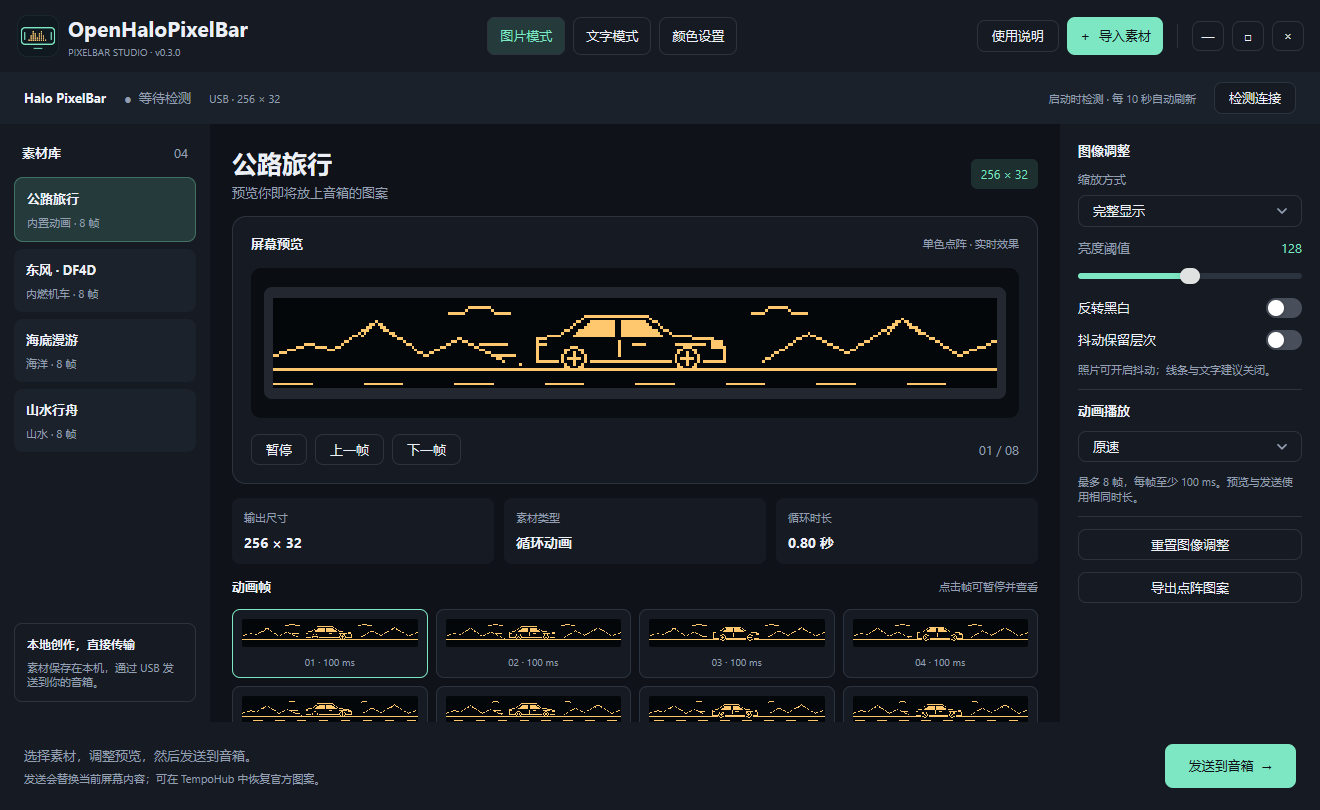
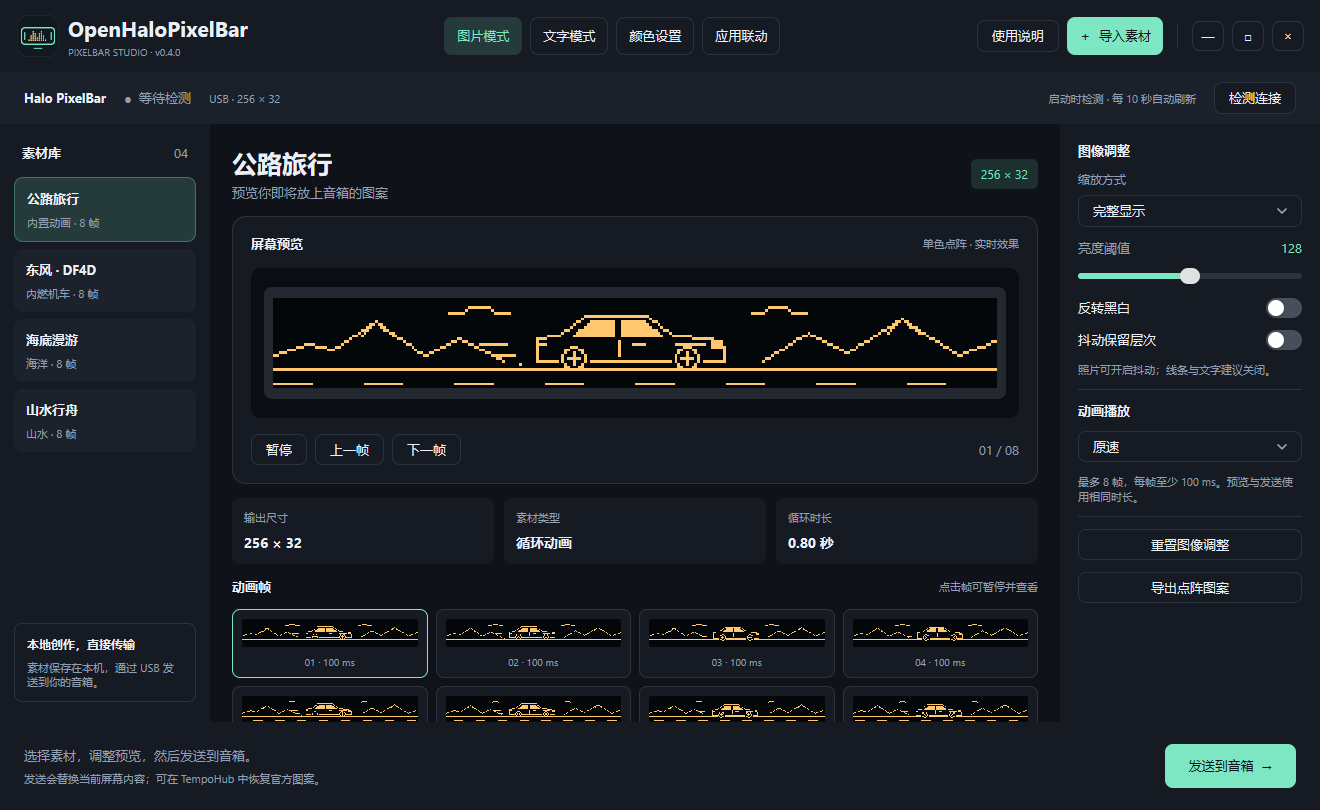
release: prepare v0.4.0 with application linkage and tray

Changed region(s): [[0.3106, 0.0, 0.5902, 0.0926]]

diff --git a/internal/branding/branding.go b/internal/branding/branding.go
@@ -4,7 +4,7 @@ package branding
 import _ "embed"
 
 const Name = "OpenHaloPixelBar"
-const Version = "0.3.0"
+const Version = "0.4.0"
 const Disclaimer = "OpenHaloPixelBar 是独立开发的非官方工具，与 EDIFIER / 花再无隶属关系。请仅使用你有权使用的素材。使用本程序可能导致显示异常、设置丢失或音箱损坏；在适用法律允许的范围内，因使用本程序造成音箱损坏或其他损失，作者及贡献者概不负责，风险由使用者自行承担。目前仅验证 Halo PixelBar 固件 1.1.1。"
 
 //go:embed icon.png
